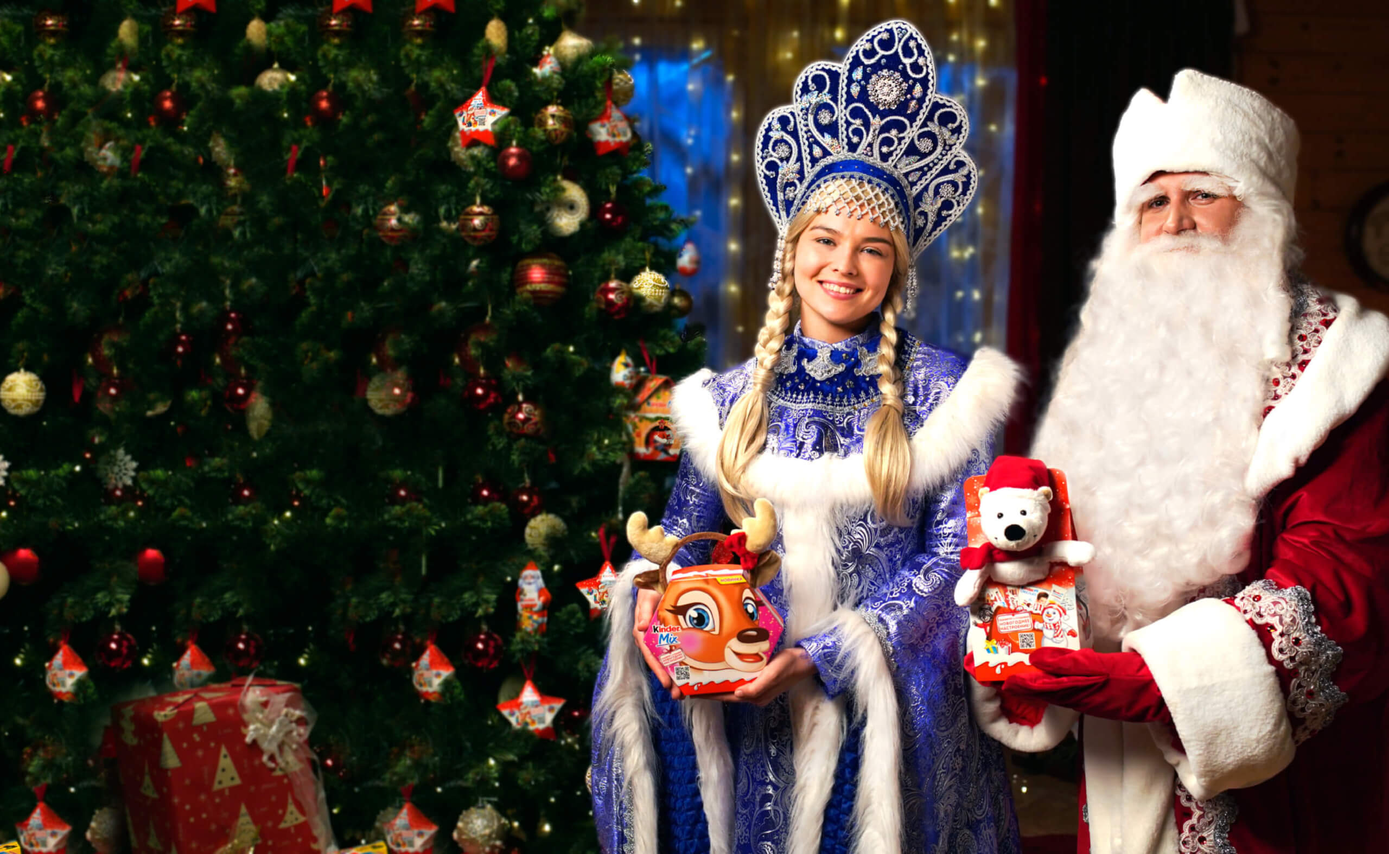
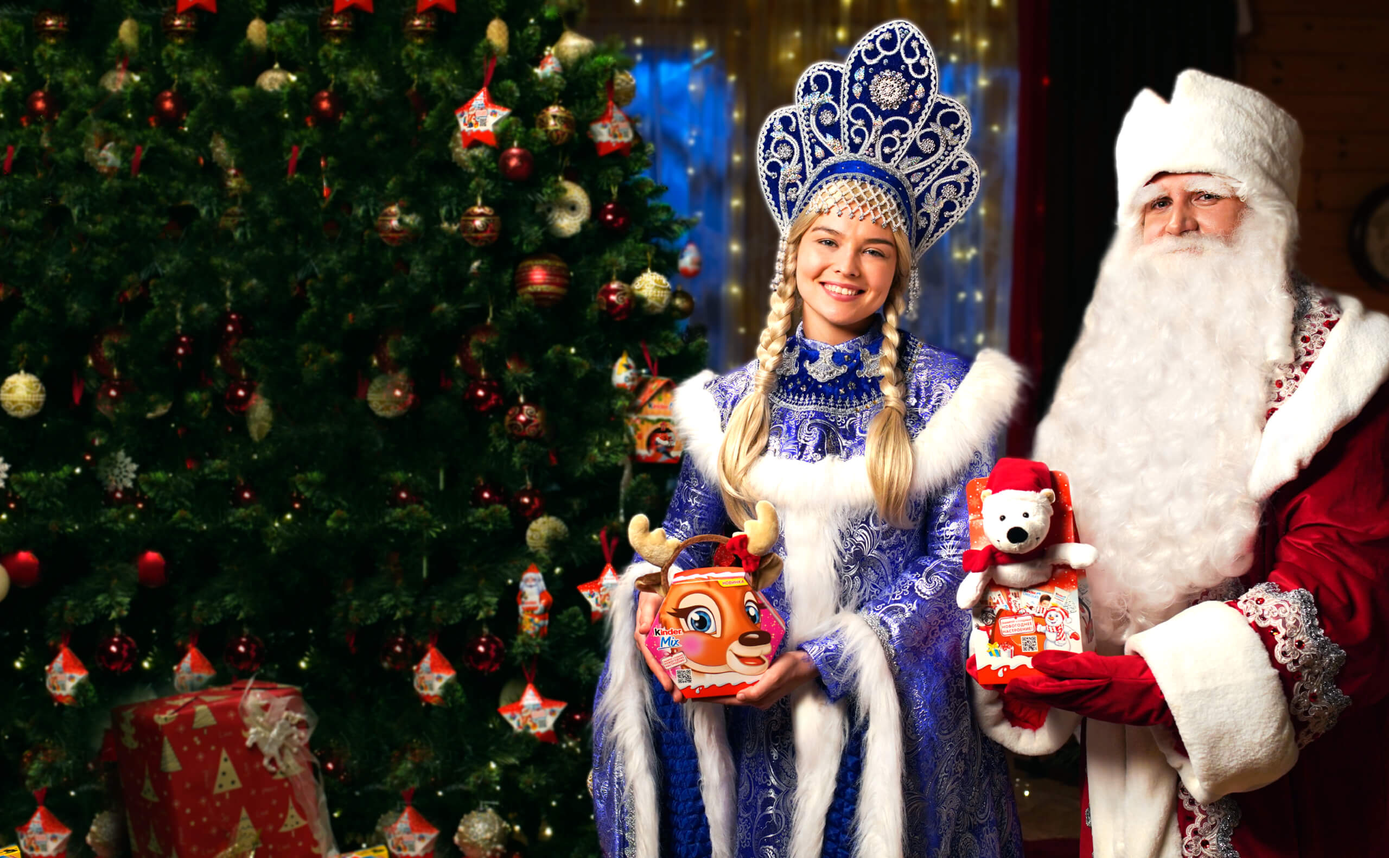
sd

diff --git a/public/css/app.css b/public/css/app.css
@@ -767,7 +767,7 @@ body {
 
 @media (min-width: 768px) {
   .promo-outer {
-    background-image: url(/images/1.jpg?497055928f571c1d32101f183e377d94);
+    background-image: url(/images/1.jpg?2d7c36da8103eea4bb9871a5f27f7ec8);
     background-position: right center;
     background-repeat: no-repeat;
     background-size: cover;
